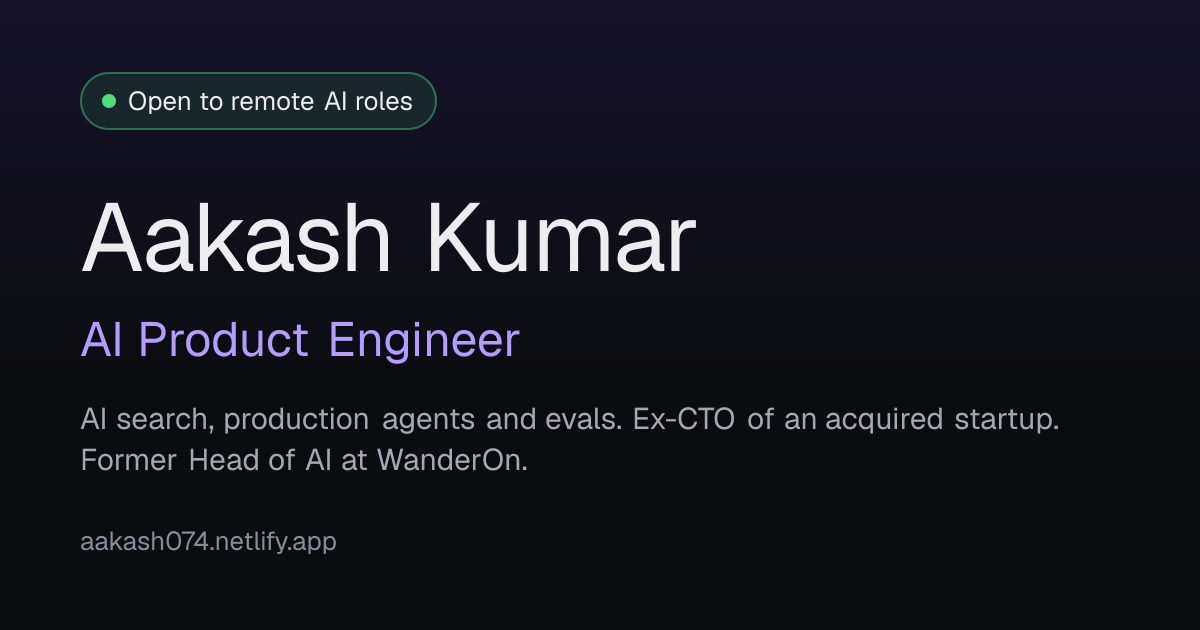
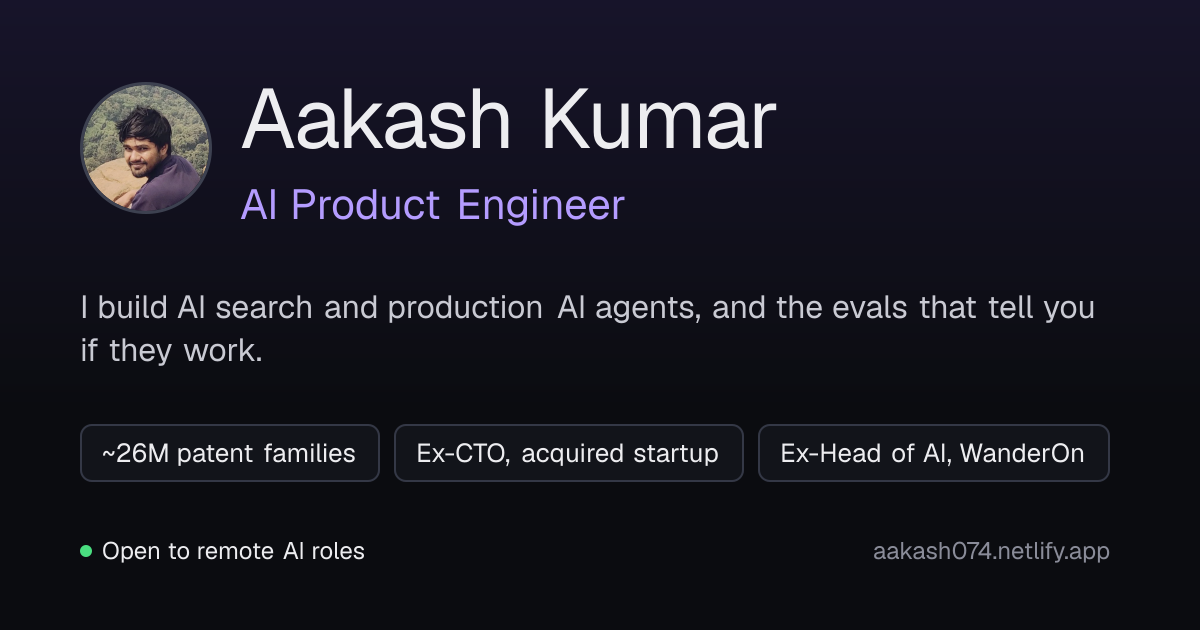
Address review 2: mobile proof, honest v2 status, OG card with proof
- Hero: proof is now short and concrete (~26M, Acquired, Shipped, Top 5);
  a compact proof grid shows on the first screen below lg (375px: grid
  and resume button above the fold), full panel on desktop
- WanderOn: says plainly v2 was built but not live when I left in
  July 2026; badge "v2 built, not live when I left"
- Experience: visible education line; tags sit outside the heading
- Clients: initials for every client, logo files removed
- Diagram labels 11px; CloneMyTrips figure hidden on mobile
- Inline nav from 768px (name shows from lg)
- OG/Twitter image regenerated with avatar and proof chips
- Remove unused LINKS.productHunt

diff --git a/src/components/sections/hero.tsx b/src/components/sections/hero.tsx
@@ -5,27 +5,12 @@ import { LINKS } from "@/lib/site";
 import { buttonStyles } from "@/components/ui/section";
 import { GitHubIcon, LinkedInIcon } from "@/components/ui/brand-icons";
 
+/** Short, concrete proof. `short` is the label used in the compact mobile grid. */
 const PROOF = [
-  {
-    stat: "~26M",
-    title: "patent families searched",
-    body: "Prior-art search I built for Photon Legal, with a recall eval that runs in CI.",
-  },
-  {
-    stat: "Acquired",
-    title: "CloneMyTrips",
-    body: "I was CTO. Built the platform from scratch and led it to acquisition.",
-  },
-  {
-    stat: "Head of AI",
-    title: "WanderOn",
-    body: "Led and built a WhatsApp sales agent that ran in production with customers.",
-  },
-  {
-    stat: "Top 5",
-    title: "HackTheBox, global",
-    body: "Plus 2x ETHGlobal winner and an Australian patent in ML for security.",
-  },
+  { stat: "~26M", short: "patent families searched", label: "Patent families in the prior-art search I built for Photon Legal." },
+  { stat: "Acquired", short: "CloneMyTrips, as CTO", label: "CloneMyTrips, where I was CTO from the first architecture to the acquisition." },
+  { stat: "Shipped", short: "WhatsApp agent, WanderOn", label: "Production WhatsApp sales agent (v1) I led as Head of AI at WanderOn." },
+  { stat: "Top 5", short: "HackTheBox, global", label: "HackTheBox, globally. Also a 2x ETHGlobal winner." },
 ];
 
 export function Hero() {
@@ -37,7 +22,7 @@ export function Hero() {
         className="pointer-events-none absolute inset-x-0 -top-40 h-[480px] bg-[radial-gradient(ellipse_at_top,rgba(180,156,255,0.14),transparent_65%)]"
       />
 
-      <div className="relative mx-auto grid max-w-6xl gap-10 px-4 pt-10 pb-16 sm:px-6 sm:pt-16 lg:grid-cols-[minmax(0,1.35fr)_minmax(0,1fr)] lg:gap-14 lg:pt-20 lg:pb-24">
+      <div className="relative mx-auto grid max-w-6xl gap-10 px-4 pt-6 pb-12 sm:px-6 sm:pt-16 lg:grid-cols-[minmax(0,1.35fr)_minmax(0,1fr)] lg:gap-14 lg:pt-20 lg:pb-24">
         <div>
           <div className="rise rise-1 flex items-center gap-4">
             <Image
@@ -47,7 +32,7 @@ export function Hero() {
               height={72}
               loading="eager"
               fetchPriority="high"
-              className="h-16 w-16 rounded-full object-cover ring-1 ring-border-strong sm:h-[72px] sm:w-[72px]"
+              className="h-12 w-12 rounded-full object-cover ring-1 ring-border-strong sm:h-[72px] sm:w-[72px]"
             />
             <p className="inline-flex items-center gap-2 rounded-full border border-success/30 bg-success/10 px-3 py-1.5 text-sm font-medium text-foreground">
               <span aria-hidden="true" className="h-2 w-2 rounded-full bg-success" />
@@ -55,14 +40,14 @@ export function Hero() {
             </p>
           </div>
 
-          <h1 id="hero-heading" className="rise rise-2 mt-7 text-4xl font-semibold tracking-tight sm:text-5xl lg:text-6xl">
+          <h1 id="hero-heading" className="rise rise-2 mt-5 text-4xl font-semibold sm:mt-7 tracking-tight sm:text-5xl lg:text-6xl">
             Aakash Kumar
             <span className="mt-2 block text-2xl font-medium text-muted sm:text-3xl lg:text-4xl">
               AI Product Engineer
             </span>
           </h1>
 
-          <p className="rise rise-3 mt-6 max-w-xl text-lg leading-relaxed text-foreground/90 text-pretty">
+          <p className="rise rise-3 mt-4 max-w-xl text-lg sm:mt-6 leading-relaxed text-foreground/90 text-pretty">
             I build AI search and AI agents that run in production, and the evals that tell you if they
             work.
           </p>
@@ -71,7 +56,16 @@ export function Hero() {
             Ventures.
           </p>
 
-          <div className="rise rise-4 mt-8 grid grid-cols-2 gap-3 sm:flex sm:flex-wrap">
+          <ul aria-label="Proof at a glance" className="rise rise-3 mt-5 grid grid-cols-2 gap-2 sm:grid-cols-4 lg:hidden">
+            {PROOF.map((item) => (
+              <li key={item.stat} className="rounded-lg border border-border bg-surface px-3 py-2.5">
+                <p className="text-lg font-semibold leading-tight tracking-tight text-accent">{item.stat}</p>
+                <p className="mt-0.5 text-xs leading-snug text-muted">{item.short}</p>
+              </li>
+            ))}
+          </ul>
+
+          <div className="rise rise-4 mt-6 grid grid-cols-2 gap-3 sm:mt-8 sm:flex sm:flex-wrap">
             <a href={LINKS.resume} className={cn(buttonStyles.base, buttonStyles.primary, "col-span-2 px-5")}>
               <Download className="h-4 w-4" aria-hidden="true" />
               Download resume
@@ -118,20 +112,15 @@ export function Hero() {
           </div>
         </div>
 
-        <aside aria-label="Proof at a glance" className="rise rise-3 lg:pt-4">
+        <aside aria-label="Proof at a glance" className="rise rise-3 hidden lg:block lg:pt-4">
           <p className="mb-3 font-mono text-xs font-medium uppercase tracking-[0.18em] text-subtle">
             Proof at a glance
           </p>
           <ul className="divide-y divide-border overflow-hidden rounded-xl border border-border bg-surface">
             {PROOF.map((item) => (
-              <li key={item.title} className="flex gap-4 p-4 sm:p-5">
-                <p className="w-28 shrink-0 text-lg font-semibold leading-tight tracking-tight text-accent sm:w-32 sm:text-2xl">
-                  {item.stat}
-                </p>
-                <div>
-                  <p className="text-sm font-semibold text-foreground">{item.title}</p>
-                  <p className="mt-1 text-sm leading-relaxed text-muted">{item.body}</p>
-                </div>
+              <li key={item.stat} className="flex items-baseline gap-4 p-5">
+                <p className="w-28 shrink-0 text-2xl font-semibold tracking-tight text-accent">{item.stat}</p>
+                <p className="text-sm leading-relaxed text-muted">{item.label}</p>
               </li>
             ))}
           </ul>

diff --git a/src/components/sections/selected-work.tsx b/src/components/sections/selected-work.tsx
@@ -31,7 +31,7 @@ function NodeBox({ node, className }: { node: Node; className?: string }) {
         className
       )}
     >
-      <p className={cn("w-12 font-mono text-[10px] font-medium uppercase tracking-[0.14em] md:w-auto", k.tag)}>
+      <p className={cn("w-12 font-mono text-[11px] font-medium uppercase tracking-[0.14em] md:w-auto", k.tag)}>
         {k.label}
       </p>
       <p className="text-sm font-semibold text-foreground md:mt-0.5">{node.label}</p>
@@ -76,7 +76,7 @@ function Figure({
             {kinds.map((kind) => (
               <li
                 key={kind}
-                className={cn("flex items-center gap-1.5 font-mono text-[10px] uppercase tracking-[0.14em]", KIND_STYLE[kind].tag)}
+                className={cn("flex items-center gap-1.5 font-mono text-[11px] uppercase tracking-[0.14em]", KIND_STYLE[kind].tag)}
               >
                 <span aria-hidden="true" className="h-2 w-2 rounded-sm bg-current" />
                 {KIND_STYLE[kind].label}
@@ -282,7 +282,7 @@ export function SelectedWork() {
             title="WhatsApp sales agent, from first message to qualified lead"
             badges={[
               { text: "v1 live with customers", live: true },
-              { text: "v2 designed, led the build" },
+              { text: "v2 built, not live when I left" },
             ]}
           />
 
@@ -293,8 +293,9 @@ export function SelectedWork() {
                 v1. It went live and took each enquiry to a qualified lead in the CRM, with hand-off to a human.
               </p>
               <p>
-                For v2, built in TypeScript on LangGraph, a fast model pulls out trip details and intent on each
-                turn. The graph, not the model, picks the next step.
+                I then designed v2 and led the build, in TypeScript on LangGraph. A fast model pulls out trip
+                details and intent on each turn, and the graph, not the model, picks the next step. v2 was built
+                but had not gone live when I left in July 2026.
               </p>
             </div>
 
@@ -342,7 +343,7 @@ export function SelectedWork() {
                     { label: "Human", detail: "Hand-off to sales" },
                   ].map((n) => (
                     <li key={n.label} className="rounded-lg border border-success/50 bg-surface-2 px-3 py-2 md:py-2.5">
-                      <p className="font-mono text-[10px] font-medium uppercase tracking-[0.14em] text-success">Output</p>
+                      <p className="font-mono text-[11px] font-medium uppercase tracking-[0.14em] text-success">Output</p>
                       <p className="mt-0.5 text-sm font-semibold text-foreground">{n.label}</p>
                       <p className="mt-0.5 hidden text-xs leading-snug text-muted md:block">{n.detail}</p>
                     </li>
@@ -378,7 +379,7 @@ export function SelectedWork() {
               </p>
             </div>
 
-            <Figure number={4} title="What I owned" caption="One owner, from the first architecture doc to the acquisition.">
+            <Figure className="hidden md:block" number={4} title="What I owned" caption="One owner, from the first architecture doc to the acquisition.">
               <ol className="space-y-3 border-l border-border-strong pl-5">
                 {[
                   { when: "Mar 2024", what: "Joined as CTO. Designed the architecture from scratch.", dot: "bg-subtle" },

diff --git a/src/components/sections/experience.tsx b/src/components/sections/experience.tsx
@@ -68,7 +68,6 @@ const EARLY = [
   { title: "Co-founder, BugClaim", detail: "Crowdsourced security SaaS. 2021 to 2022." },
   { title: "Co-founder, CybSec NITW", detail: "The campus security club. 2019 to 2022. Organised PhantomCTF, the first CTF at NIT Warangal." },
   { title: "Chapter Lead, OWASP Warangal", detail: "Student chapter, 2021." },
-  { title: "B.Tech, Computer Science and Engineering", detail: "NIT Warangal, 2018 to 2022." },
 ];
 
 export function Experience() {
@@ -84,16 +83,16 @@ export function Experience() {
             <p className="text-sm text-subtle sm:pt-1">{r.dates}</p>
             <div className="flex gap-4">
               <div className="min-w-0">
-                <h3 className="flex flex-wrap items-center gap-x-3 gap-y-1 text-base font-semibold text-foreground">
-                  <span>
+                <div className="flex flex-wrap items-center gap-x-3 gap-y-1">
+                  <h3 className="text-base font-semibold text-foreground">
                     {r.role}, {r.company}
-                  </span>
+                  </h3>
                   {r.tag && (
-                    <span className="rounded-full border border-accent/40 bg-accent-soft px-2 py-0.5 text-xs font-medium text-accent">
+                    <p className="rounded-full border border-accent/40 bg-accent-soft px-2 py-0.5 text-xs font-medium text-accent">
                       {r.tag}
-                    </span>
+                    </p>
                   )}
-                </h3>
+                </div>
                 <p className="mt-0.5 text-sm text-subtle">{r.place}</p>
                 <p className="mt-2 max-w-3xl text-base leading-relaxed text-muted">{r.summary}</p>
               </div>
@@ -102,9 +101,14 @@ export function Experience() {
         ))}
       </ol>
 
-      <details className="group mt-6 rounded-xl border border-border bg-surface">
+      <p className="mt-6 text-sm text-muted">
+        <span className="font-semibold text-foreground">Education:</span> B.Tech, Computer Science and
+        Engineering, NIT Warangal (2018 to 2022)
+      </p>
+
+      <details className="group mt-4 rounded-xl border border-border bg-surface">
         <summary className="flex min-h-12 items-center justify-between gap-4 rounded-xl px-5 text-sm font-medium text-foreground hover:bg-surface-2">
-          Before 2022: university, founding roles and security
+          Before 2022: founding roles and security work
           <ChevronDown className="chevron h-4 w-4 text-muted transition-transform" aria-hidden="true" />
         </summary>
         <ul className="grid gap-x-8 gap-y-4 border-t border-border px-5 py-5 sm:grid-cols-2">

diff --git a/src/components/sections/clients.tsx b/src/components/sections/clients.tsx
@@ -1,4 +1,3 @@
-import Image from "next/image";
 import { ArrowUpRight, ChevronDown } from "lucide-react";
 import { Section } from "@/components/ui/section";
 
@@ -8,8 +7,6 @@ interface Client {
   built: string;
   /** Only set when the site is reachable. */
   url?: string;
-  /** Only set when we have the company's real mark. */
-  logo?: string;
 }
 
 const FEATURED: Client[] = [
@@ -24,14 +21,12 @@ const FEATURED: Client[] = [
     domain: "Payroll",
     built: "Stablecoin batch payroll for global freelancers, with audit-ready receipts.",
     url: "https://payoutrails.xyz",
-    logo: "/logos/payoutrails.png",
   },
   {
     name: "Nihaan Energy",
     domain: "EV charging",
     built: "The NEO mobile app and a web platform to manage chargers, with live monitoring and OCPP.",
     url: "https://www.nihaanenergy.com",
-    logo: "/logos/nihaanenergy.png",
   },
 ];
 
@@ -40,7 +35,6 @@ const MORE: Client[] = [
     name: "HashFast",
     domain: "Payments",
     built: "Payment links that take many tokens and confirm in real time.",
-    logo: "/logos/hashfast.png",
   },
   {
     name: "NanoBond",
@@ -58,7 +52,6 @@ const MORE: Client[] = [
     domain: "Consumer fintech",
     built: "Bill splitting for groups, with instant settlement and expense tracking.",
     url: "https://useletspay.com",
-    logo: "/logos/letspay.png",
   },
 ];
 
@@ -69,11 +62,7 @@ function ClientCard({ c }: { c: Client }) {
         aria-hidden="true"
         className="grid h-10 w-10 shrink-0 place-items-center overflow-hidden rounded-lg border border-border bg-background"
       >
-        {c.logo ? (
-          <Image src={c.logo} alt="" width={24} height={24} className="h-6 w-6 object-contain" />
-        ) : (
-          <span className="font-mono text-xs font-semibold text-muted">{c.name.slice(0, 2).toUpperCase()}</span>
-        )}
+        <span className="font-mono text-xs font-semibold text-muted">{c.name.slice(0, 2).toUpperCase()}</span>
       </span>
       <span className="min-w-0 flex-1">
         <span className="flex items-center justify-between gap-2">

diff --git a/src/components/layout/navbar.tsx b/src/components/layout/navbar.tsx
@@ -56,17 +56,17 @@ export function Navbar() {
           >
             AK
           </span>
-          Aakash Kumar
+          <span className="md:sr-only lg:not-sr-only">Aakash Kumar</span>
         </a>
 
-        <ul className="hidden items-center gap-1 lg:flex">
+        <ul className="hidden items-center md:flex lg:gap-1">
           {NAV_LINKS.map((link) => (
             <li key={link.id}>
               <a
                 href={`#${link.id}`}
                 aria-current={active === link.id ? "location" : undefined}
                 className={cn(
-                  "flex min-h-11 items-center rounded-md px-3 text-sm transition-colors",
+                  "flex min-h-11 items-center rounded-md px-2.5 text-sm transition-colors lg:px-3",
                   active === link.id ? "text-foreground" : "text-muted hover:text-foreground"
                 )}
               >
@@ -88,14 +88,14 @@ export function Navbar() {
             aria-expanded={open}
             aria-controls="mobile-menu"
             aria-label={open ? "Close menu" : "Open menu"}
-            className="grid h-11 w-11 place-items-center rounded-lg border border-border text-muted transition-colors hover:text-foreground lg:hidden"
+            className="grid h-11 w-11 place-items-center rounded-lg border border-border text-muted transition-colors hover:text-foreground md:hidden"
           >
             {open ? <X className="h-5 w-5" aria-hidden="true" /> : <Menu className="h-5 w-5" aria-hidden="true" />}
           </button>
         </div>
       </nav>
 
-      <div id="mobile-menu" hidden={!open} className="border-t border-border bg-background lg:hidden">
+      <div id="mobile-menu" hidden={!open} className="border-t border-border bg-background md:hidden">
         <ul className="mx-auto max-w-6xl px-4 py-2 sm:px-6">
           {NAV_LINKS.map((link) => (
             <li key={link.id} className="border-b border-border last:border-b-0">

diff --git a/src/lib/site.ts b/src/lib/site.ts
@@ -9,7 +9,6 @@ export const LINKS = {
   github: "https://github.com/aakash074",
   telegram: "https://t.me/aakash074",
   x: "https://x.com/Kumaaraakash074",
-  productHunt: "https://www.producthunt.com/@aakash074",
 } as const;
 
 export const NAV_LINKS = [
